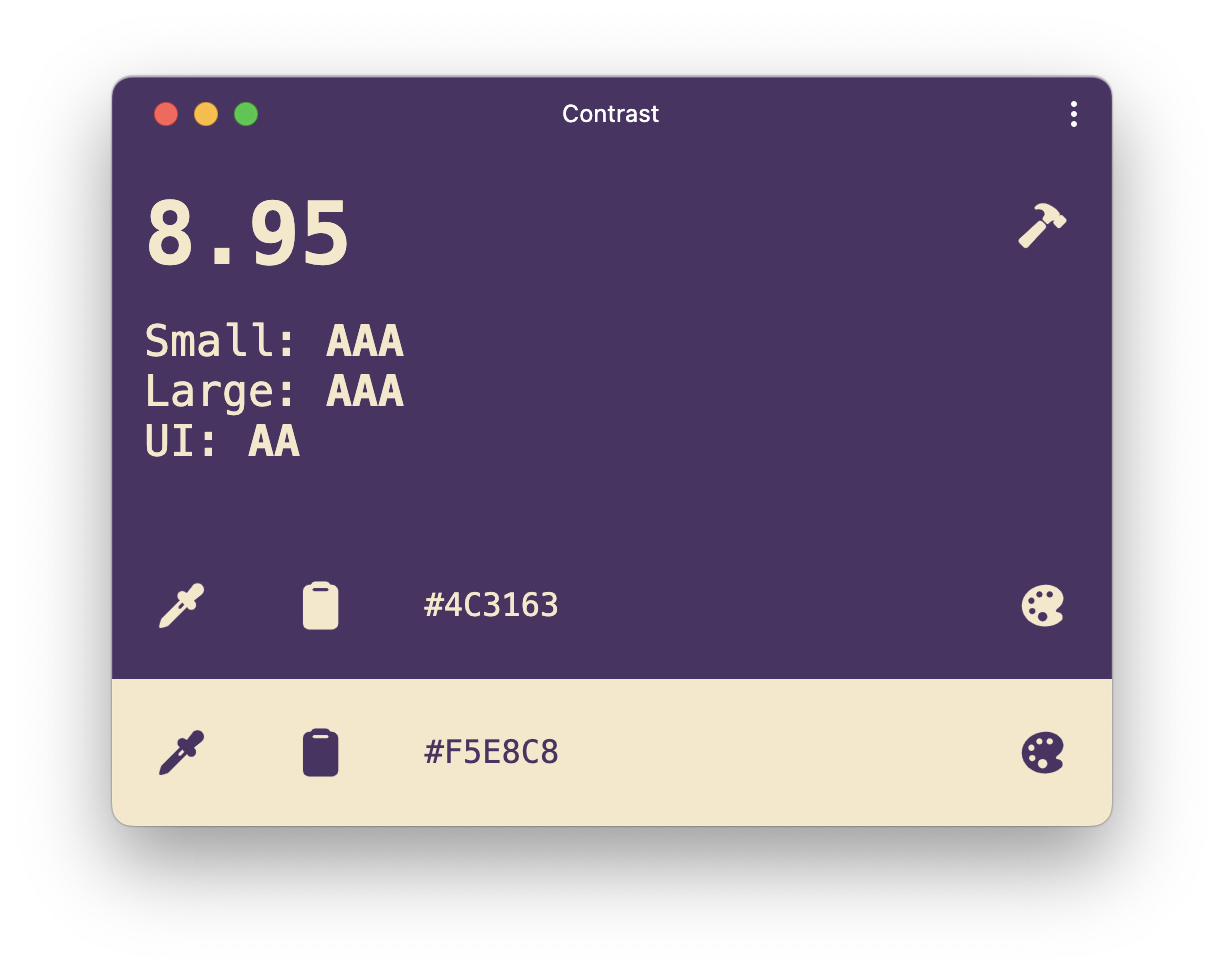
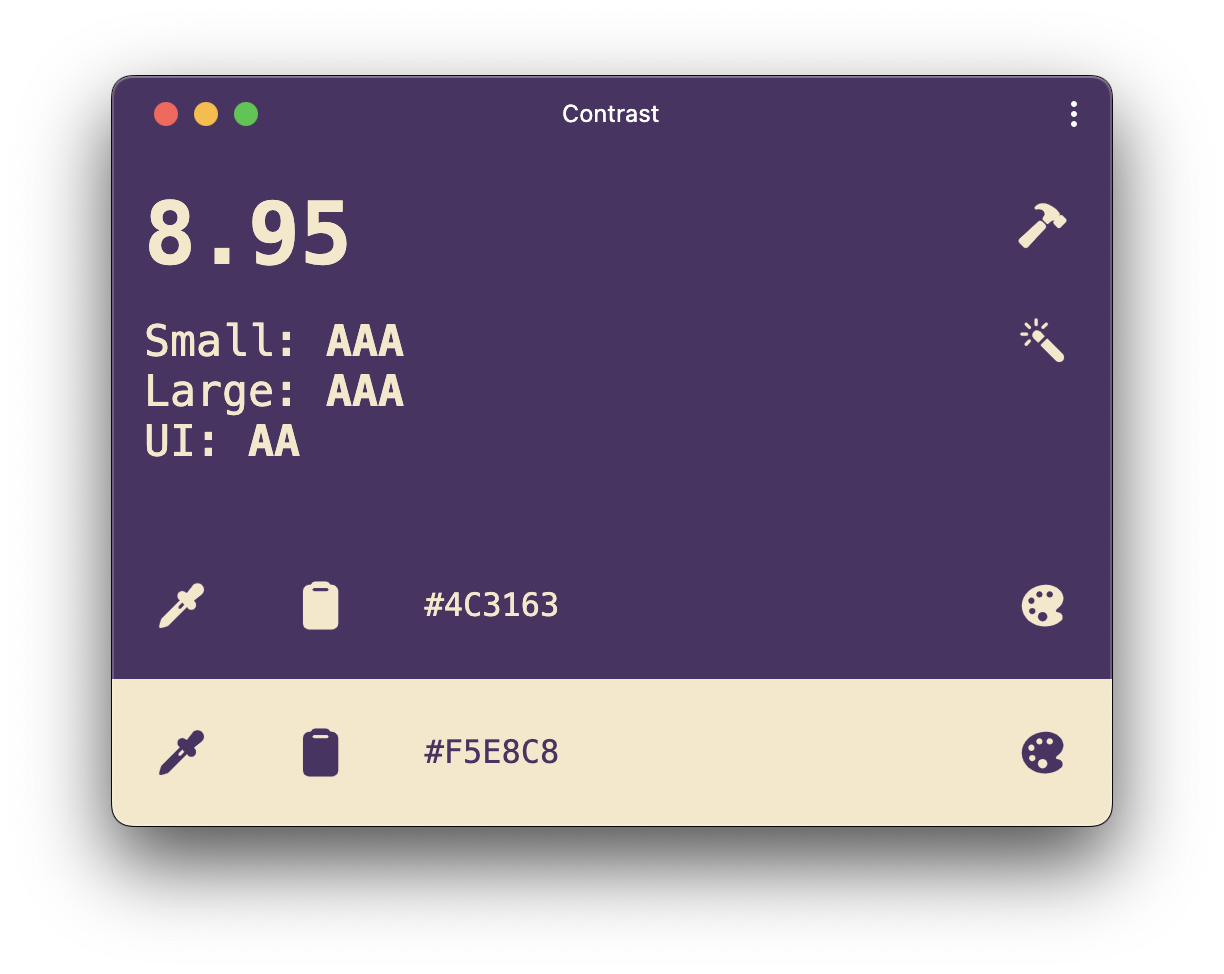
feat: automatically adjust background color to meet or exceed AA contrast (#63)

Changed region(s): [[0.0621, 0.1232, 0.9314, 0.924], [0.8382, 0.3388, 0.8693, 0.3696]]

diff --git a/src/App.vue b/src/App.vue
@@ -2,27 +2,14 @@
 import { ref, watch } from 'vue';
 import { ColorContrastCalc } from 'color-contrast-calc';
 
+import { computeContrast } from './utils';
+
 import DropperButton from './components/DropperButton.vue';
 import CopyButton from './components/CopyButton.vue';
 import PaletteButton from './components/PaletteButton.vue';
 import ColorInput from './components/ColorInput.vue';
 import ModeButton from './components/ModeButton.vue';
-
-const getContrast = () => {
-  const foregroundRGB = ColorContrastCalc.colorFrom(foreground.value);
-  const backgroundRGB = ColorContrastCalc.colorFrom(background.value);
-  
-  const ratio = foregroundRGB.contrastRatioAgainst(backgroundRGB);
-  
-  /**
-   * Ratio should have at most
-   * two decimal places. Note that we
-   * do not round here because a
-   * ratio of 4.995 should not be
-   * founded up to 4.5.
-   */
-  return ratio.toString().match(/^-?\d+(?:\.\d{0,2})?/)[0];
-}
+import AdjustButton from './components/AdjustButton.vue';
 
 const getDeveloperMode = () => {
   const res = localStorage.getItem('developermode');
@@ -42,7 +29,7 @@ const developerMode = ref(getDeveloperMode());
 const foregroundTextColor = ref(background.value);
 const backgroundTextColor = ref(foreground.value);
 
-const contrast = ref(getContrast())
+const contrast = ref(computeContrast(foreground.value, background.value))
 const metaThemeColor = document.querySelector('meta[name=theme-color]') as HTMLMetaElement;
 
 const updateMetaThemeColor = () => {
@@ -83,7 +70,7 @@ const computeRating = () => {
  */
 watch([foreground, background], () => {
   updateMetaThemeColor();
-  const ratio = contrast.value = getContrast();
+  const ratio = contrast.value = computeContrast(foreground.value, background.value);
   
   /**
    * Typically the textColor refs are the
@@ -147,7 +134,10 @@ updateMetaThemeColor();
           <h2>{{ contrast }}</h2>
         </span>
         
-        <ModeButton v-model="developerMode" :hint="developerMode === false ? 'Enter developer mode' : 'Exit developer mode'" />
+        <div class="button-column">
+          <ModeButton v-model="developerMode" :hint="developerMode === false ? 'Enter developer mode' : 'Exit developer mode'" />
+          <AdjustButton v-model="background" :foreground="foreground" hint="Adjust background color to meet AA color contrast level" />
+        </div>
 
       </div>
       <div class="foreground color-row">
@@ -306,5 +296,15 @@ updateMetaThemeColor();
   
   .bottom-bar .color-row {
     width: 100%; /* hack */
+  }
+  
+  .button-column {
+    display: flex;
+    flex-direction: column;
+    
+    position: absolute;
+    
+    inset-inline-end: 0;
+    top: 8px;
   }
 </style>

diff --git a/src/components/AdjustButton.vue b/src/components/AdjustButton.vue
@@ -1,0 +1,56 @@
+<script setup lang="ts">  
+  import { colorWand, checkmark } from 'ionicons/icons';
+  import { computeContrast } from '../utils';
+  import { ColorContrastCalc } from 'color-contrast-calc';
+  import { ref } from 'vue';
+
+  const props = defineProps(['modelValue', 'foreground', 'hint']);
+  const emit = defineEmits(['update:modelValue']);
+  
+  const showAdjustButton = ref(true);
+
+  const adjustColor = () => {
+    const contrast = computeContrast(props.foreground, props.modelValue);
+    
+    if (contrast < 4.5) {
+      const foregroundColor = ColorContrastCalc.colorFrom(props.foreground);
+      const backgroundColor = ColorContrastCalc.colorFrom(props.modelValue);
+      
+      const adjustedBackgroundColor = foregroundColor.findBrightnessThreshold(backgroundColor, 'AA');
+      emit('update:modelValue', adjustedBackgroundColor.hexCode);
+    }
+    
+    showAdjustButton.value = false;
+    
+    // Show a visual indicator that the operation succeeded to the clipboard.
+    setTimeout(() => {
+      showAdjustButton.value = true;
+    }, 3000);
+  }  
+</script>
+
+<template>
+  <div class="button-wrapper">
+    <button v-if="showAdjustButton" @click="adjustColor()" class="app-icon" :title="props.hint" :aria-label="props.hint">
+      <ion-icon aria-hidden="true" :icon="colorWand"></ion-icon>
+    </button>
+    <div class="app-icon" v-if="!showAdjustButton">
+      <ion-icon aria-label="Background color adjusted" :icon="checkmark" class="checkmark"></ion-icon>
+    </div>
+    <div class="status" role="status" aria-live="assertive">
+      <p v-if="!showAdjustButton">Background color adjusted</p>
+    </div>
+  </div>
+</template>
+
+<style scoped>
+  .checkmark {
+    cursor: default;
+  }
+  
+  .status {
+    opacity: 0;
+    position: absolute;
+    pointer-events: none;
+  }
+</style>

diff --git a/src/utils/index.ts b/src/utils/index.ts
@@ -1,0 +1,14 @@
+import { ColorContrastCalc } from 'color-contrast-calc';
+
+export const computeContrast = (foreground: string, background: string) => {
+  const foregroundRGB = ColorContrastCalc.colorFrom(foreground);
+  const backgroundRGB = ColorContrastCalc.colorFrom(background);
+  
+  const ratio = foregroundRGB.contrastRatioAgainst(backgroundRGB);
+  
+  /**
+   * Ratio should have at most two decimal places. Note that we do not round here
+   * because a ratio of 4.995 should not be rounded up to 4.5.
+   */
+  return ratio.toString().match(/^-?\d+(?:\.\d{0,2})?/)[0];
+}

diff --git a/src/components/ModeButton.vue b/src/components/ModeButton.vue
@@ -17,12 +17,3 @@
     </button>
   </div>
 </template>
-
-<style scoped>
-  .button-wrapper {
-    position: absolute;
-    
-    inset-inline-end: 0;
-    top: 8px;
-  }
-</style>

diff --git a/README.md b/README.md
@@ -43,6 +43,10 @@ The selected foreground and background colors are displayed in their respective 
 
 The color palette tool can be used to bring up the browser's native color picker for more advanced color selection.
 
+### Modifying Colors
+
+Contrast can help suggest more accessible colors using the "Auto Adjust" tool. Clicking the wand icon will adjust the background color if necessary to bring the color contrast ratio up to at least 4.5:1 (AA).
+
 ### Copying Colors
 
 The clipboard icon can be used to copy the foreground or background color to your clipboard for usage outside of the app.
